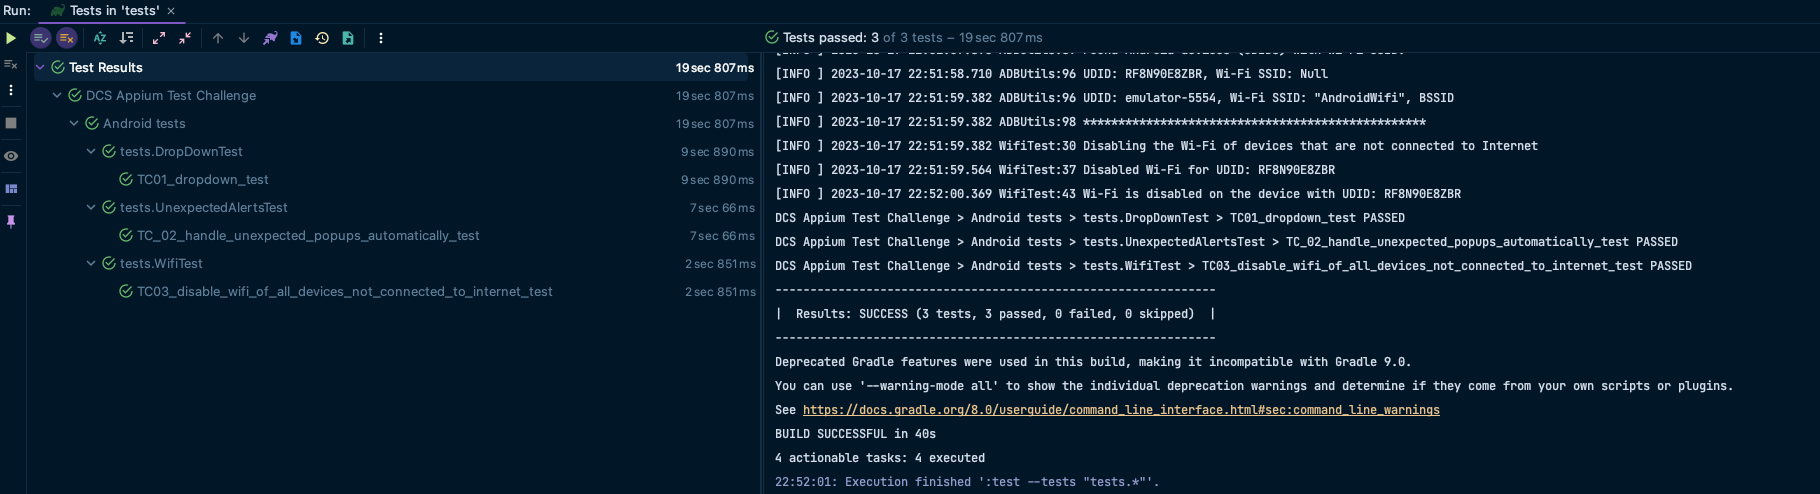
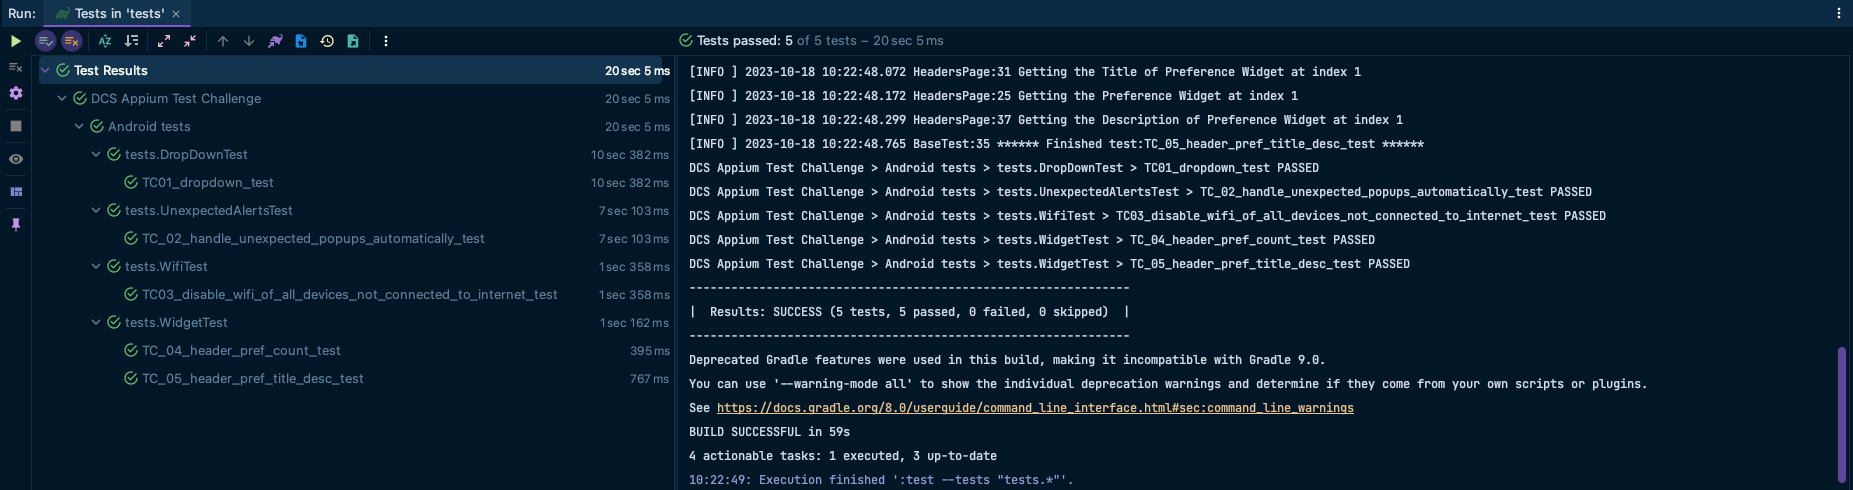
Task 04: Widget Implementation

diff --git a/src/test/java/pages/HeadersPage.java b/src/test/java/pages/HeadersPage.java
@@ -1,0 +1,41 @@
+package pages;
+
+import io.appium.java_client.AppiumDriver;
+import io.appium.java_client.pagefactory.AndroidFindBy;
+import org.slf4j.Logger;
+import org.slf4j.LoggerFactory;
+import pages.widgets.Preference;
+
+import java.util.List;
+
+public class HeadersPage extends BasePage {
+    private static Logger logger = LoggerFactory.getLogger(HeadersPage.class);
+    public HeadersPage(AppiumDriver appiumDriver) {
+        super(appiumDriver);
+    }
+
+    @AndroidFindBy(xpath = "//android.widget.ListView//android.widget.LinearLayout")
+    private List<Preference> preferences;
+
+    public int getPrefCount() {
+        return preferences.size();
+    }
+
+    private Preference getPreference(int index) {
+        logger.info("Getting the Preference Widget at index {}", index);
+        return preferences.get(index);
+    }
+
+    public String getPrefTitle(int index) {
+        Preference preference = getPreference(index);
+        logger.info("Getting the Title of Preference Widget at index {}", index);
+        return preference.getTitle();
+    }
+
+    public String getPrefDesc(int index) {
+        Preference preference = getPreference(index);
+        logger.info("Getting the Description of Preference Widget at index {}", index);
+        return preference.getDesc();
+    }
+
+}

diff --git a/src/test/java/tests/WidgetTest.java b/src/test/java/tests/WidgetTest.java
@@ -1,0 +1,34 @@
+package tests;
+
+import org.testng.annotations.BeforeMethod;
+import org.testng.annotations.Test;
+
+import static org.assertj.core.api.Assertions.assertThat;
+
+public class WidgetTest extends BaseTest {
+
+    @BeforeMethod
+    private void navigate_to_headersPage() {
+        preferencePage = homePage.openPreferencePage();
+        headersPage = preferencePage.openHeadersPage();
+    }
+
+    /*
+    This test case validates the total count of preferences on Headers Page
+    Each Preference is stored as Widget
+     */
+    @Test
+    public void TC_04_header_pref_count_test() {
+        assertThat(headersPage.getPrefCount()).isEqualTo(3);
+    }
+
+    /*
+    This test case validates the title and summary of second preference on Headers Page
+    Each Preference is stored as Widget
+     */
+    @Test
+    public void TC_05_header_pref_title_desc_test() {
+        assertThat(headersPage.getPrefTitle(1)).isEqualTo("Prefs 2");
+        assertThat(headersPage.getPrefDesc(1)).isEqualTo("Some other preferences you can see.");
+    }
+}

diff --git a/src/test/java/pages/PreferencePage.java b/src/test/java/pages/PreferencePage.java
@@ -1,0 +1,23 @@
+package pages;
+
+import io.appium.java_client.AppiumDriver;
+import io.appium.java_client.pagefactory.AndroidFindBy;
+import org.openqa.selenium.WebElement;
+import org.slf4j.Logger;
+import org.slf4j.LoggerFactory;
+
+public class PreferencePage extends BasePage {
+    private static Logger logger = LoggerFactory.getLogger(PreferencePage.class);
+    public PreferencePage(AppiumDriver appiumDriver) {
+        super(appiumDriver);
+    }
+
+    @AndroidFindBy(accessibility = "8. Headers")
+    private WebElement headersLO;
+
+    public HeadersPage openHeadersPage() {
+        logger.info("tapping on Headers to open Headers screen");
+        tap(headersLO);
+        return new HeadersPage(driver);
+    }
+}

diff --git a/src/test/java/pages/widgets/Preference.java b/src/test/java/pages/widgets/Preference.java
@@ -1,0 +1,28 @@
+package pages.widgets;
+
+import io.appium.java_client.pagefactory.AndroidFindBy;
+import io.appium.java_client.pagefactory.Widget;
+import org.openqa.selenium.WebElement;
+
+/*
+This widget encapsulates the Widget Title and Summary on the Headers Page
+ */
+public class Preference extends Widget {
+    protected Preference(WebElement element) {
+        super(element);
+    }
+
+    @AndroidFindBy(id = "android:id/title")
+    private WebElement title;
+
+    @AndroidFindBy(id = "android:id/summary")
+    private WebElement description;
+
+    public String getTitle() {
+        return title.getText();
+    }
+
+    public String getDesc() {
+        return description.getText();
+    }
+}

diff --git a/src/test/java/pages/HomePage.java b/src/test/java/pages/HomePage.java
@@ -18,6 +18,9 @@ public class HomePage extends BasePage {
     @AndroidFindBy(accessibility = "Views")
     private WebElement viewsLO;
 
+    @AndroidFindBy(accessibility = "Preference")
+    private WebElement preferenceLO;
+
     public ViewsPage openViewsPage() {
         logger.info("tapping on Views to open Views screen");
         tap(viewsLO);
@@ -29,4 +32,11 @@ public class HomePage extends BasePage {
         tap(appLO);
         return new AppPage(driver);
     }
+
+    public PreferencePage openPreferencePage() {
+        logger.info("tapping on Preference to open Preference screen");
+        tap(preferenceLO);
+        return new PreferencePage(driver);
+    }
+
 }

diff --git a/src/test/java/tests/BaseTest.java b/src/test/java/tests/BaseTest.java
@@ -19,6 +19,8 @@ public class BaseTest {
     SpinnerPage spinnerPage;
     AppPage appPage;
     AlertsPage alertsPage;
+    PreferencePage preferencePage;
+    HeadersPage headersPage;
 
     @BeforeMethod(alwaysRun = true)
     public void setup(Method m) {

diff --git a/README.md b/README.md
@@ -48,6 +48,8 @@ A fork of Google's Android ApiDemos application, used for testing Appium
 
 ## Test Cases
 
+There are a total of 05 test cases implemented.
+
 ### TestCase 01: Scroll to element, and select value from dropdown
 
 * Click on "Views" Tab
@@ -74,6 +76,15 @@ A fork of Google's Android ApiDemos application, used for testing Appium
 * For each of the filtered device:
   * It switches off the Wi-Fi
   * And validates that Wi-Fi is disabled
+
+### TestCase 04-05 (Bonus/Optional): Appium Widget Implementation
+
+> This test case validates the list of elements on Headers Screen as Widgets
+* 
+* Click on "Preference"
+* Click on "08. Headers"
+* Validate the Preference Total Count
+* Validate the second Preference's title and description
 
 ## Running Tests
 
@@ -105,7 +116,7 @@ gradle clean test
 
 <img src="doc/IntelliJ-output.png" alt="running tests from IDE">
 
-* It will run the whole regression suite comprising of 3 test cases split between 3 test classes.
+* It will run the whole regression suite comprising of 5 test cases split between 4 test classes.
 * Results will be available in terminal after the build is finished.
 * TestNG HTML report is generated and available at `test-output/index.html`
 * Gradle HTML report is generated and available at `gradle-reports/index.html`
